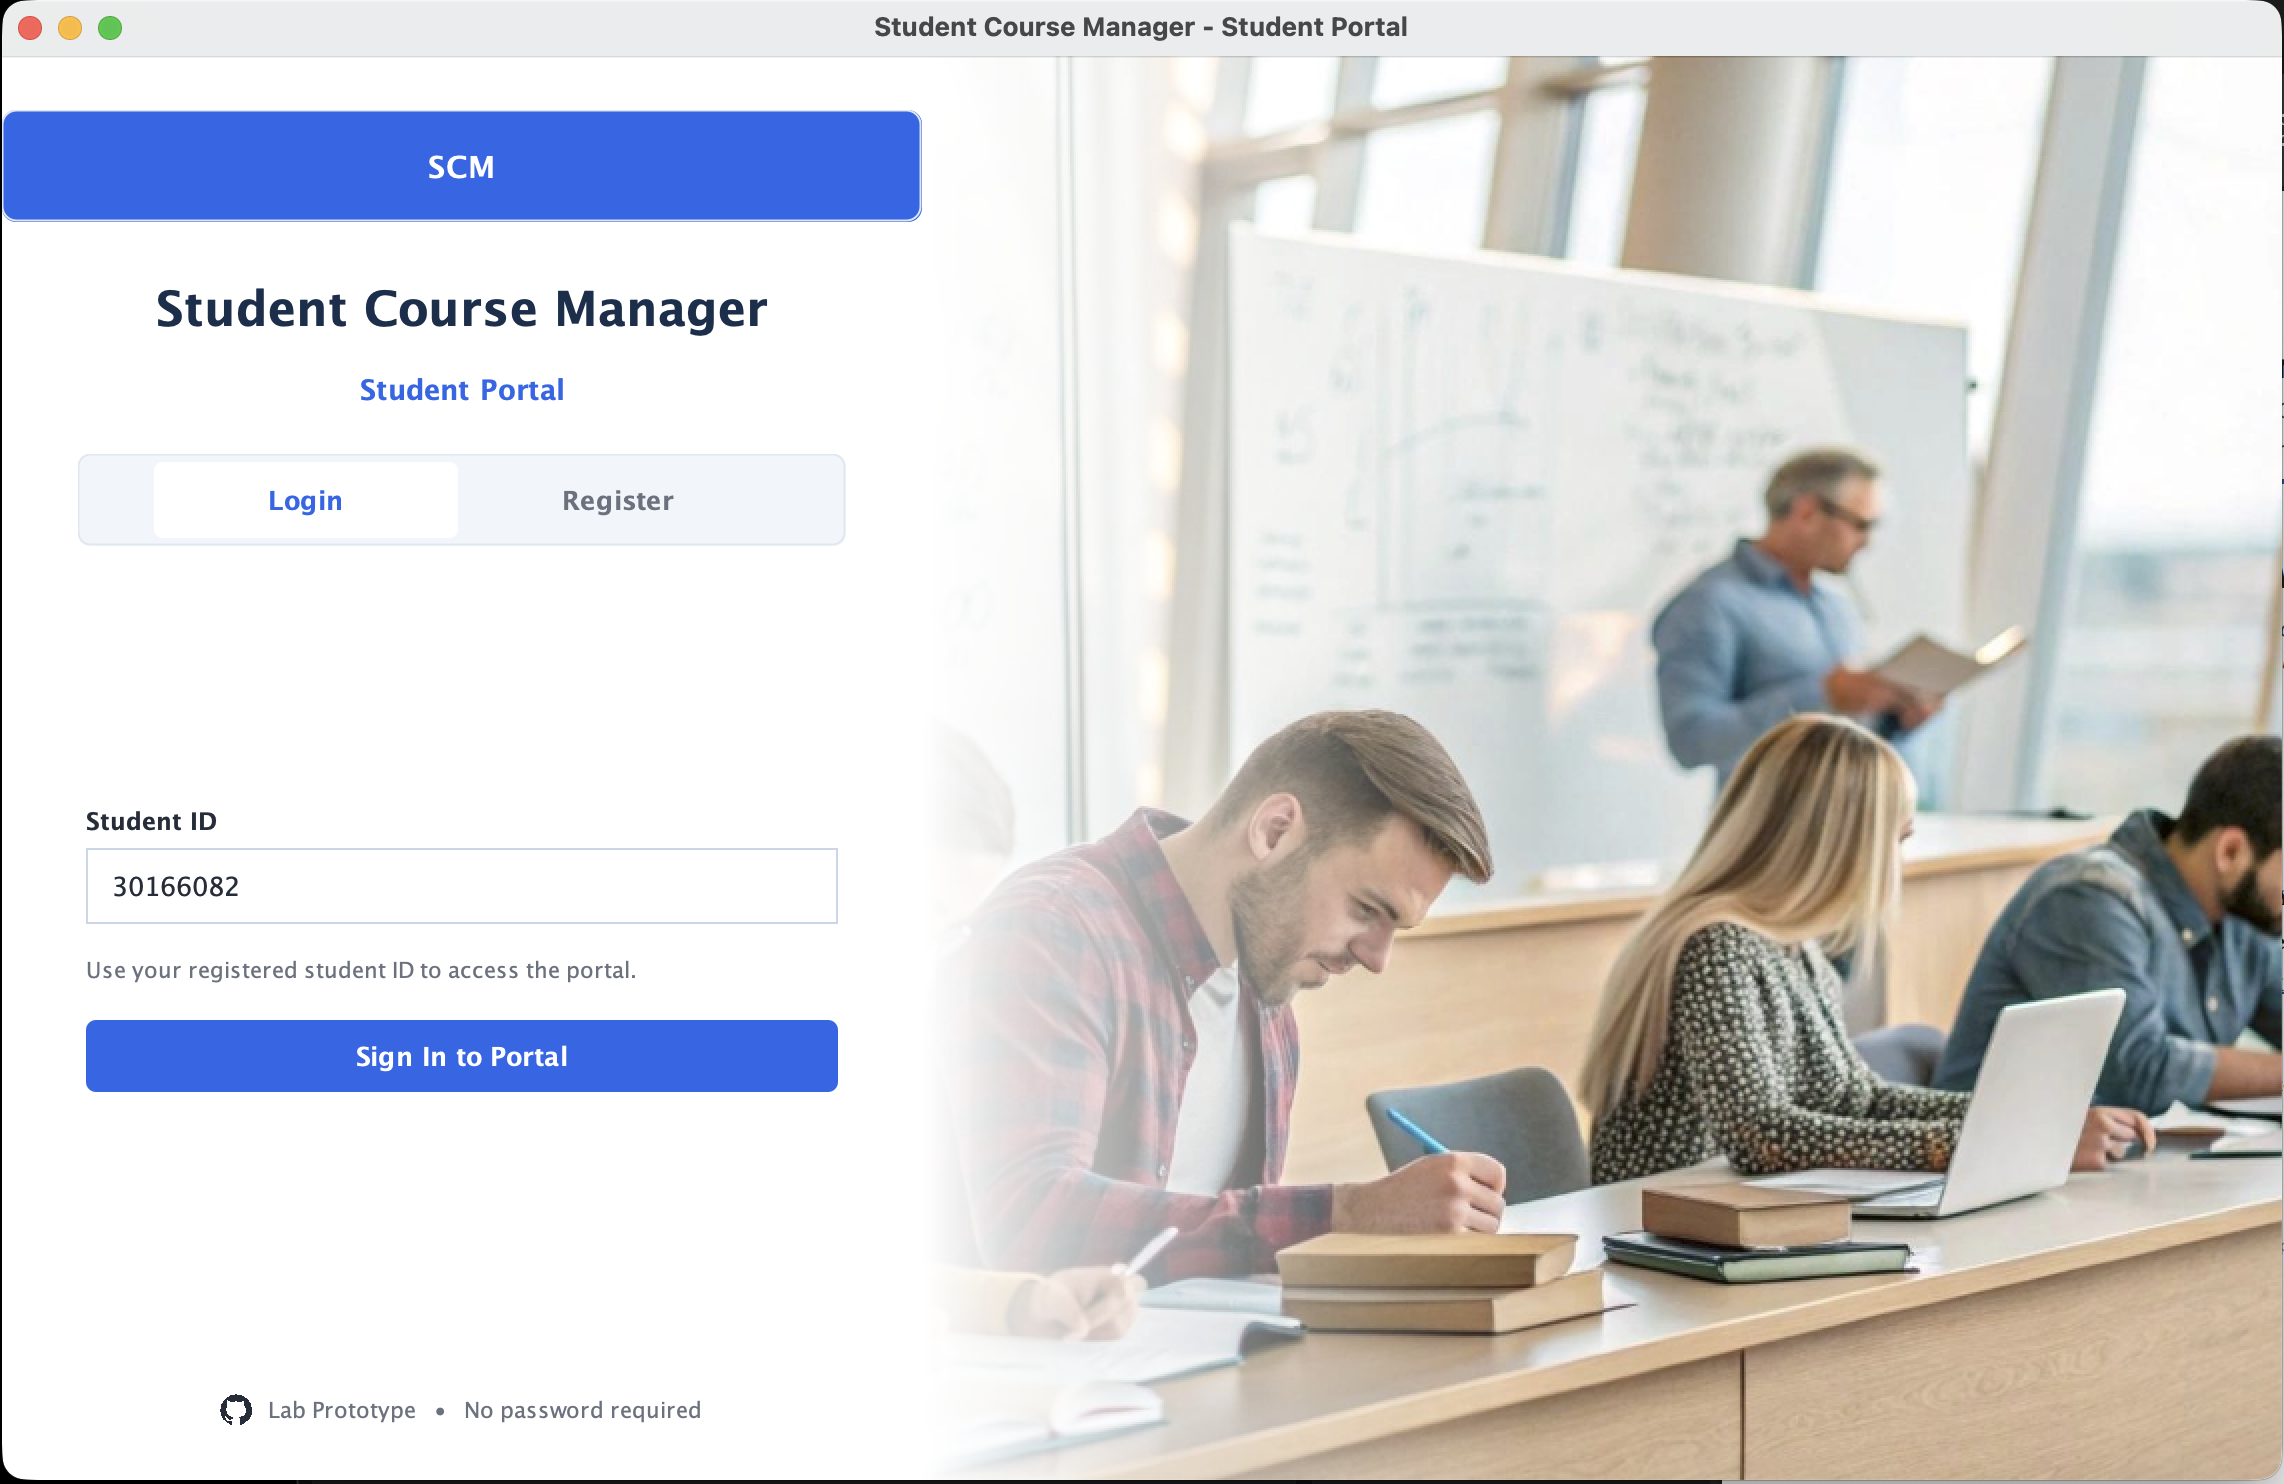
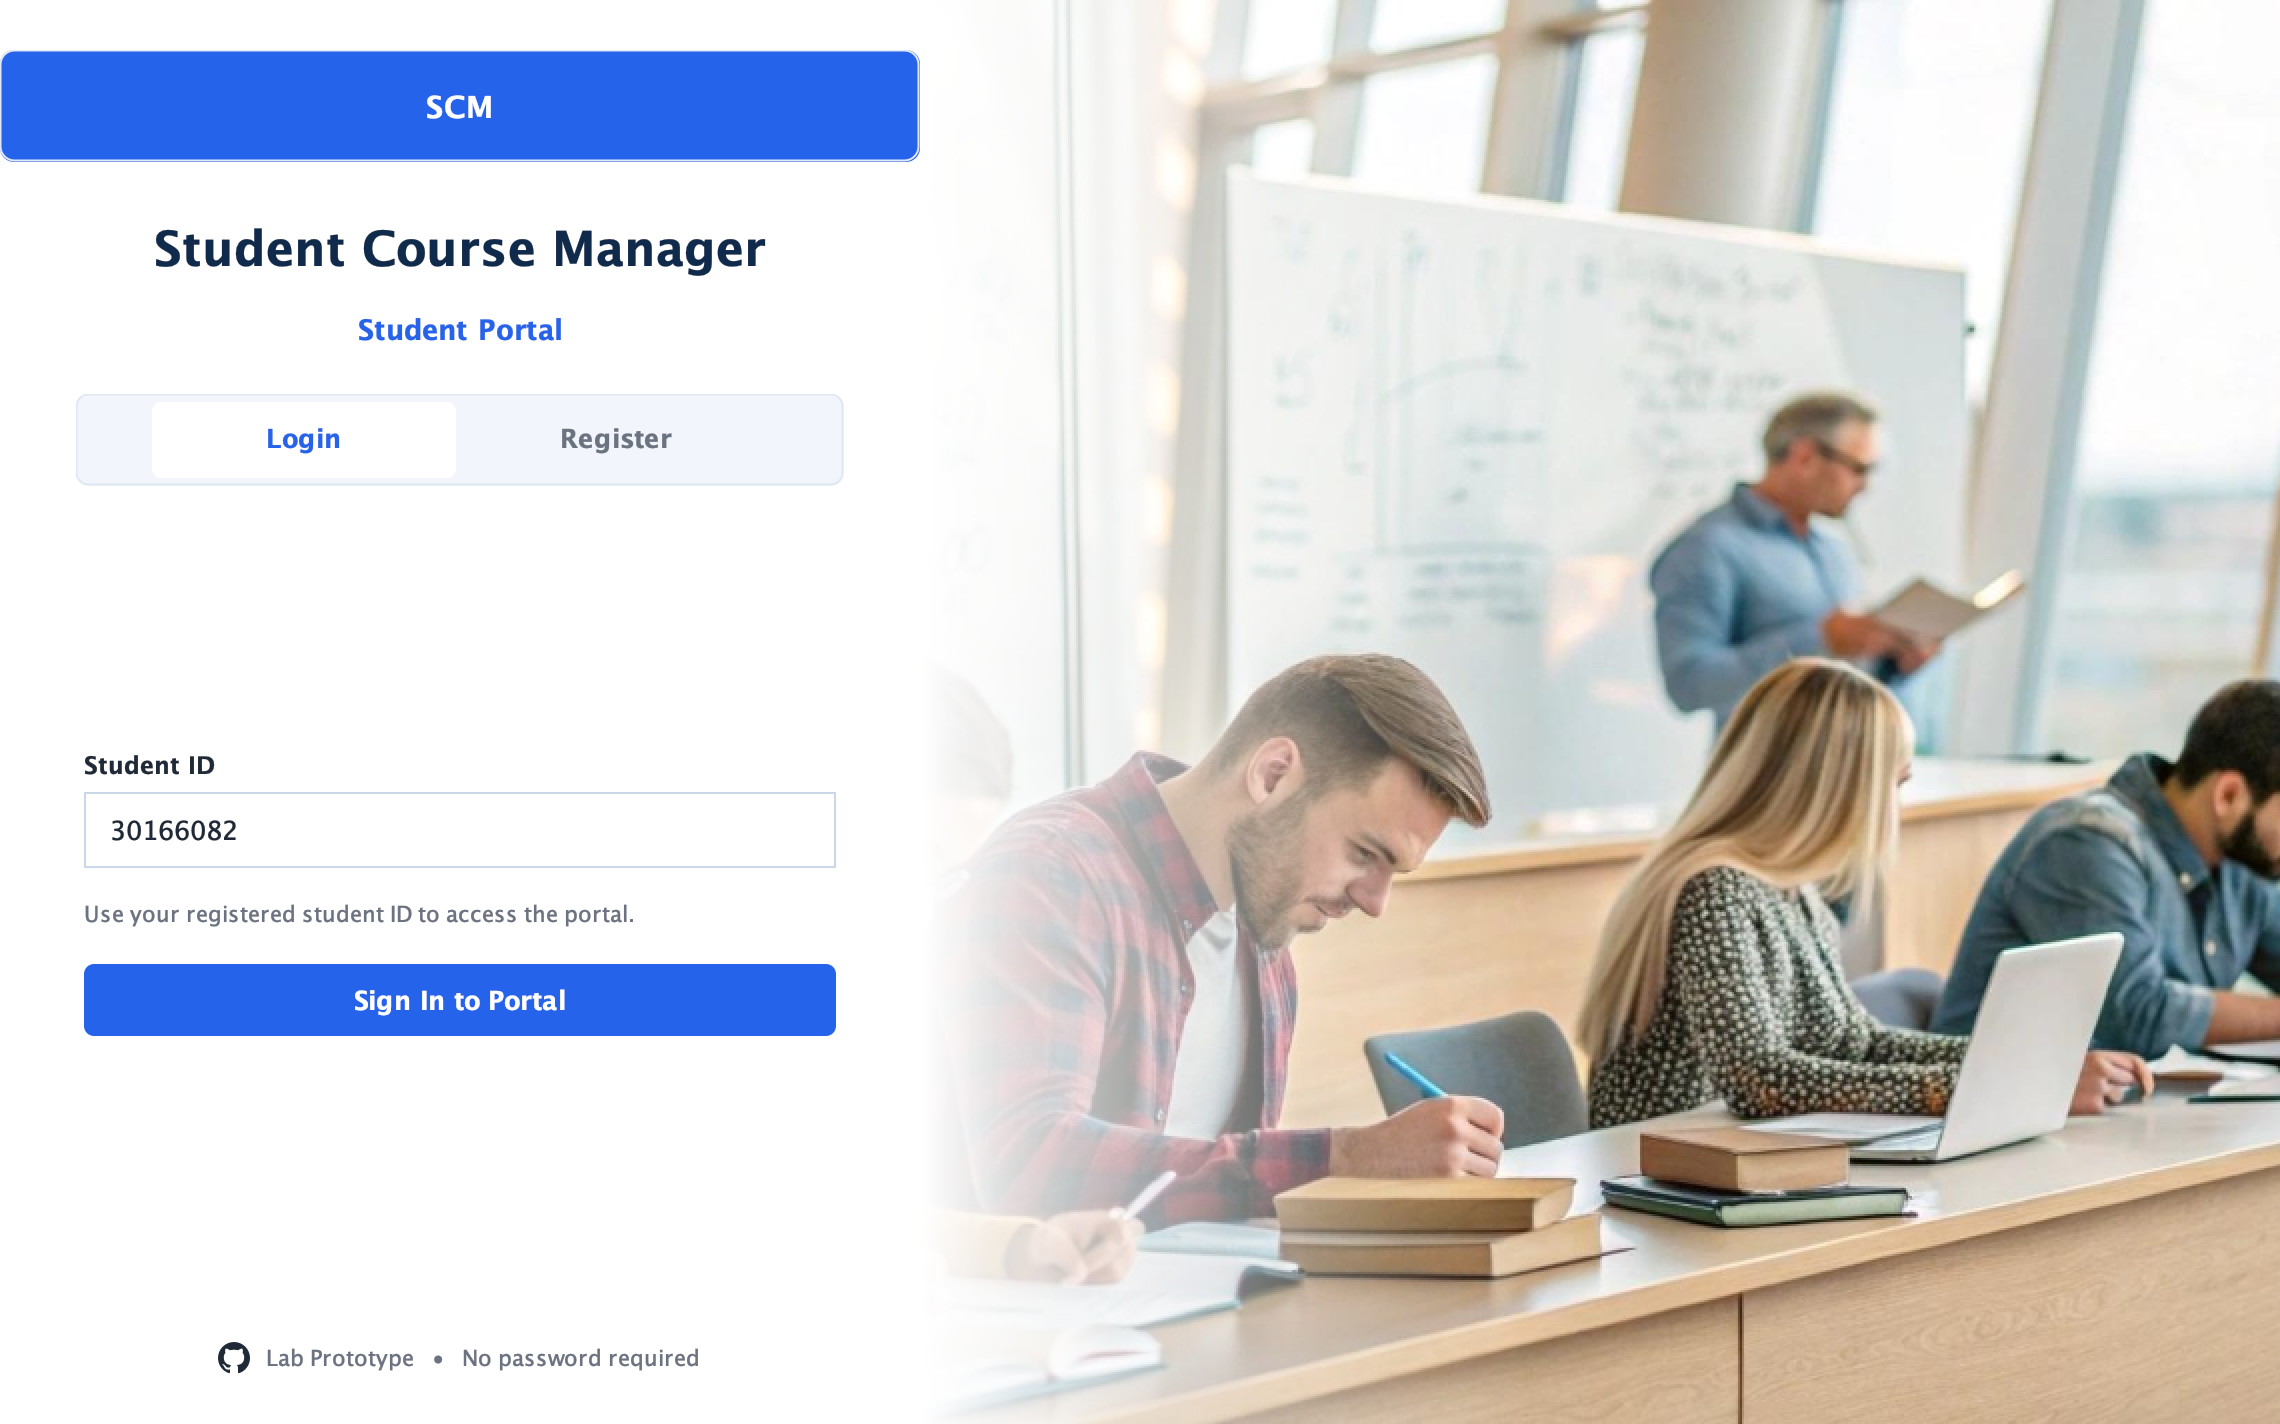
Recapture the screenshots consistently and tidy the README section

diff --git a/README.md b/README.md
@@ -8,14 +8,25 @@ the catalogue, tracks credit units and saves or loads the course list from
 a text file. The seeded 200 Level course list adapts to whichever level a
 student registers with (COS 201 becomes COS 301 for a 300 Level student).
 
-## Screenshot
+## Screenshots
 
-![Student Course Management System dashboard](screenshots/program_running.png)
+![Student Course Management System dashboard with the enrolled courses table, a 22 of 24 credit load, the analytics donut chart and the live activity log](screenshots/program_running.png)
 
-![Login screen](screenshots/login_screen.png)
+*The dashboard: enrolled courses, the credit load, analytics and the activity log on one screen.*
 
-The program running, signed in to the Student Course Management System
-dashboard.
+![Enrollment screen with "COS 201" in the search box and the result "Found: COS 201 - Computer Programming I (3 units)" shown in green](screenshots/enrollment_search.png)
+
+*Searching the catalogue by course code and getting the result on screen.*
+
+![Enrollment screen with "COS 20" typed in the course code field and the inline message "Invalid code format (example: COS 201)" in red](screenshots/enrollment_invalid.png)
+
+*Real-time validation: an incomplete code is rejected with an inline message before anything is saved.*
+
+<p align="center">
+  <img src="screenshots/login_screen.png" alt="Sign-in screen with a student ID field, a login and register toggle, and a Sign In to Portal button" width="620">
+</p>
+
+*The sign-in screen.*
 
 ## Install (no Java needed)
 
